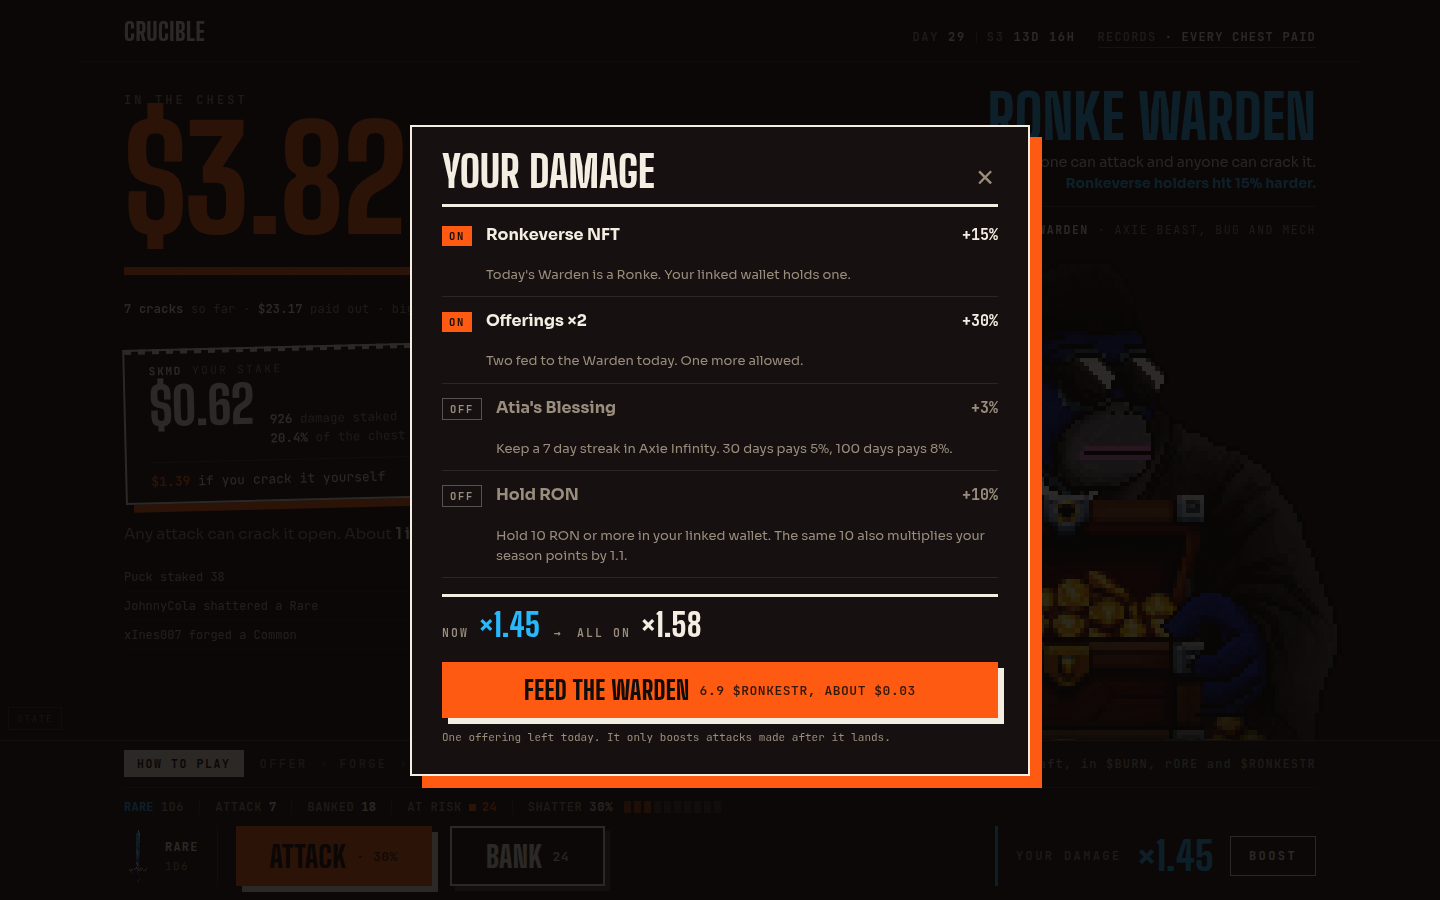
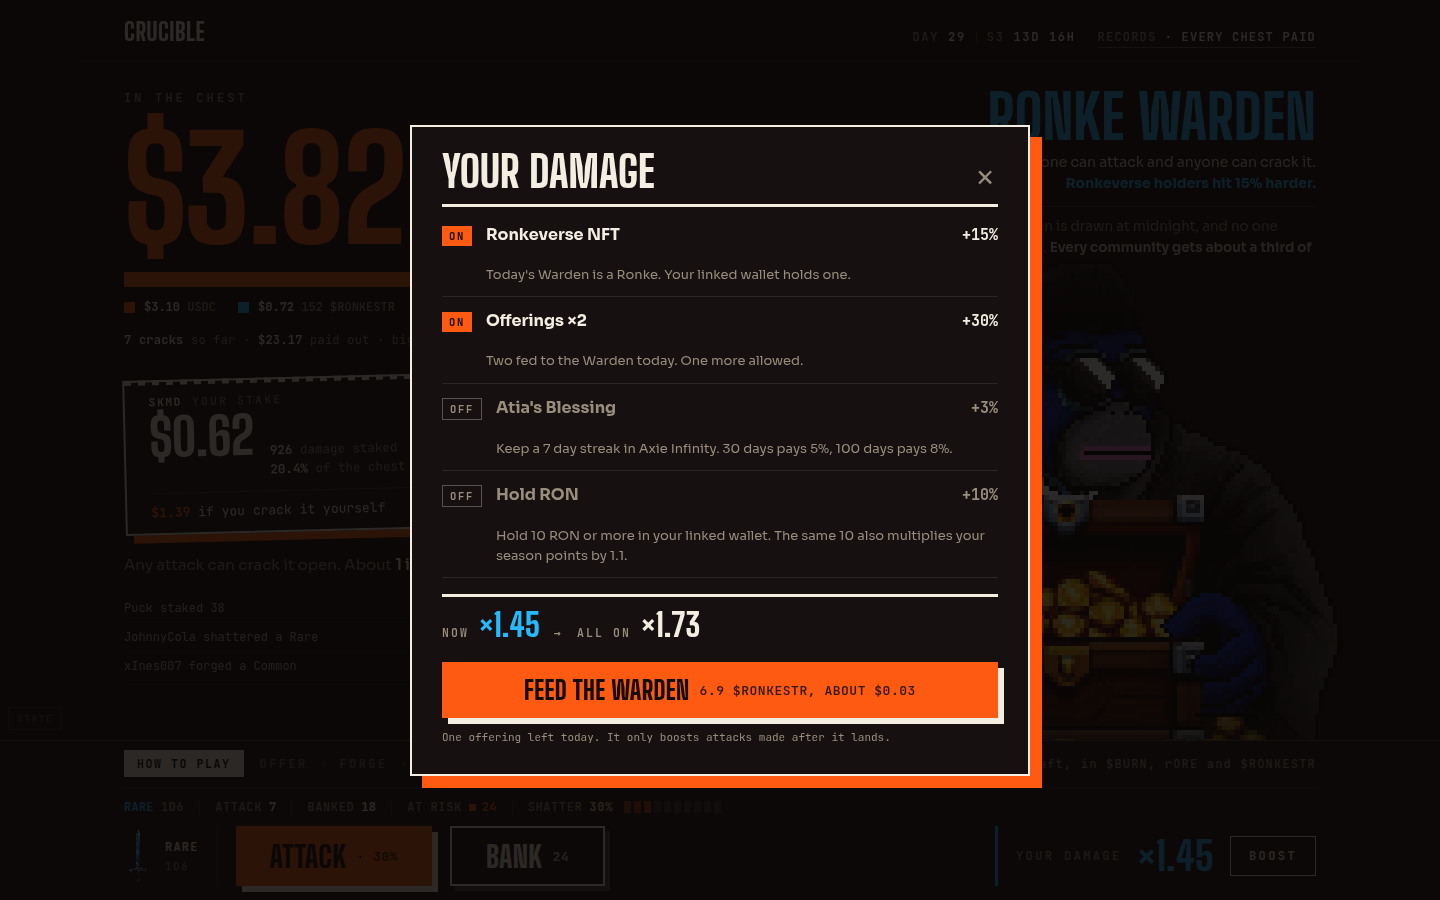
arena: D rev5

diff --git a/mockups/arena/arena-d-synthesis.html b/mockups/arena/arena-d-synthesis.html
@@ -78,33 +78,33 @@ button{font:inherit;color:inherit;background:none;border:0;cursor:pointer}
 /* ---------- the pot: a meter, not a billboard ---------- */
 .kicker{
   font-family:var(--mono);font-size:12px;font-weight:600;letter-spacing:.26em;
-  text-transform:uppercase;color:var(--muted);margin-top:30px;
+  text-transform:uppercase;color:var(--muted);margin-top:28px;
 }
+/* the dollar sign rides higher than the digits in this face, so the label needs
+   more clearance than optical centring would suggest */
 .pot{
   font-family:var(--disp);font-weight:800;font-size:clamp(84px,9.9vw,146px);
   line-height:.8;letter-spacing:-.022em;color:var(--ember);
-  margin-top:14px;font-variant-numeric:tabular-nums;display:block;
+  margin-top:26px;font-variant-numeric:tabular-nums;display:block;
 }
-/* the fill line keeps the "it grows" meaning. The count-up animation is
-   deliberately gone: a giant animated money figure is on our own list of
-   things that read as a scam. */
-.fill{position:relative;margin-top:24px;height:24px;width:min(560px,100%)}
-.fill .track{
-  position:absolute;left:0;right:0;top:10px;height:2px;
-  background:repeating-linear-gradient(to right,rgba(244,237,225,.28) 0 6px,transparent 6px 12px);
+/* Composition, not progress. It used to be a part-width "it grows" bar with an
+   unlabelled maximum, which meant an unreadable axis and two meanings on one
+   object. It is now exactly one thing: what is in the chest, by value.
+   Growth lives in the record line underneath, in words. */
+.fill{position:relative;margin-top:26px;height:15px;width:min(560px,100%);overflow:hidden}
+.fill .bar{display:flex;gap:2px;height:15px;width:100%}
+.fill .seg{height:15px;flex-grow:1;flex-basis:0;animation:grow .85s cubic-bezier(.16,1,.3,1)}
+@keyframes grow{from{transform:scaleX(0);transform-origin:left}to{transform:none}}
+
+/* the legend is the "at a glance" part: swatch, value, token. Same mono system
+   as the rail so the page still only has two type treatments for data. */
+.compo{list-style:none;display:flex;flex-wrap:wrap;gap:8px 22px;margin-top:12px}
+.compo li{
+  display:flex;align-items:center;gap:9px;
+  font-family:var(--mono);font-size:12px;font-weight:600;color:var(--muted);
 }
-.fill .ticks{
-  position:absolute;left:0;right:0;top:5px;height:12px;
-  background:repeating-linear-gradient(to right,rgba(244,237,225,.16) 0 1px,transparent 1px 10%);
-}
-.fill .bar{position:absolute;left:0;top:7px;height:8px;width:78%;display:flex;overflow:hidden}
-.fill .seg-usdc{background:var(--ember);flex:63.3 0 0}
-.fill .seg-rk{background:var(--warden);flex:14.7 0 0}
-.fill .head{position:absolute;top:0;height:24px;width:3px;background:var(--bone);left:78%;transform:translateX(-1px)}
-.fill.go .bar{animation:grow 1s cubic-bezier(.16,1,.3,1)}
-.fill.go .head{animation:growhead 1s cubic-bezier(.16,1,.3,1)}
-@keyframes grow{from{width:0}to{width:78%}}
-@keyframes growhead{from{left:0}to{left:78%}}
+.compo i{width:11px;height:11px;display:block;flex:none}
+.compo b{color:var(--bone);font-weight:700}
 
 /* the record, not a single prior draw: the ceiling persona's only hold, and
    the trust instrument the front-door red team ranked highest */
@@ -208,14 +208,15 @@ button{font:inherit;color:inherit;background:none;border:0;cursor:pointer}
 }
 .wardenhead p b{color:var(--warden);font-weight:700}
 /* nothing anywhere told a visiting community that its own day was coming */
+/* same body face as the perk line directly above it: this is a sentence, not a
+   data label, and setting it in uppercase mono made it a wall */
 .tomorrow{
-  position:relative;z-index:3;width:fit-content;margin-left:auto;
-  margin-top:12px;display:flex;align-items:center;gap:9px;
-  font-family:var(--mono);font-size:11.5px;letter-spacing:.13em;text-transform:uppercase;
-  color:var(--muted);border-top:1px solid rgba(244,237,225,.2);padding-top:9px;
+  position:relative;z-index:3;display:block;margin-left:auto;
+  margin-top:12px;padding-top:10px;max-width:36ch;
+  border-top:1px solid rgba(244,237,225,.2);
+  font-size:13.5px;line-height:1.5;color:var(--muted);
 }
-.tomorrow b{color:var(--bone);font-weight:700}
-.tomorrow img{width:26px;height:26px;opacity:.9}
+.tomorrow b{color:rgba(244,237,225,.85);font-weight:600}
 
 /* The roster that lived here has gone to Records. It was imported from
    direction B, it was never one of the five things the arena keeps, and laid
@@ -378,6 +379,11 @@ button{font:inherit;color:inherit;background:none;border:0;cursor:pointer}
 .sheet-fine{
   margin-top:11px;font-family:var(--mono);font-size:11px;line-height:1.5;color:var(--muted);
 }
+.sheet-panel.narrow{width:min(480px,100%)}
+.power-lede{margin-top:14px;font-size:15px;line-height:1.55;color:var(--muted)}
+.power-lede b{color:var(--warden);font-family:var(--disp);font-weight:800;font-size:24px;letter-spacing:0}
+.power-actions{display:grid;grid-template-columns:1fr auto;gap:12px;margin-top:18px}
+.power-actions .btn{font-size:24px;height:54px;padding:0 22px}
 
 body[data-state="forge"] .only-weapon{display:none}
 body[data-state="weapon"] .only-forge{display:none}
@@ -490,12 +496,11 @@ body[data-state="weapon"] .only-forge{display:none}
 
   .kicker{margin-top:22px;font-size:11px;letter-spacing:.22em}
   .pot{font-size:88px;margin-top:8px}
-  .fill{height:20px;margin-top:14px;width:100%}
-  .fill .track{top:8px}
-  .fill .ticks{top:4px;height:10px}
-  .fill .bar{top:6px;height:7px}
-  .fill .head{height:20px}
-  .record{margin-top:12px;font-size:11.5px}
+  .fill{height:13px;margin-top:18px;width:100%}
+  .fill .bar,.fill .seg{height:13px}
+  .compo{margin-top:10px;gap:6px 16px}
+  .compo li{font-size:11.5px;gap:7px}
+  .record{margin-top:11px;font-size:11.5px}
 
   .stampwrap{margin-top:20px}
   .stamp{min-width:0;width:100%;transform:rotate(-.9deg);padding:12px 15px 11px;box-shadow:6px 6px 0 var(--ember)}
@@ -535,6 +540,10 @@ body[data-state="weapon"] .only-forge{display:none}
   .buff-sum{font-size:10.5px;letter-spacing:.12em;gap:7px;margin-top:13px;padding-top:11px}
   .buff-sum b{font-size:26px}
   .sheet-fine{font-size:10.5px}
+  .power-lede{font-size:13.5px;margin-top:12px}
+  .power-lede b{font-size:21px}
+  .power-actions{grid-template-columns:1fr;gap:9px;margin-top:14px}
+  .power-actions .btn{font-size:21px;height:48px}
   .pop{font-size:30px}
 }
 
@@ -624,14 +633,50 @@ body[data-state="weapon"] .only-forge{display:none}
       </li>
     </ul>
 
+    <!-- 1 + .15 NFT + .45 three offerings + .03 Atia + .10 RON -->
     <div class="buff-sum">
       <span>Now</span><b class="now">&times;1.45</b>
       <span class="arrow">&rarr;</span>
-      <span>All on</span><b class="max">&times;1.58</b>
+      <span>All on</span><b class="max">&times;1.73</b>
     </div>
 
     <button class="btn btn-primary sheet-go" data-close>Feed the Warden <small>6.9 $RONKESTR, about $0.03</small></button>
     <p class="sheet-fine">One offering left today. It only boosts attacks made after it lands.</p>
+  </div>
+</div>
+
+<!-- Not at full power. Fires once per visit, on the first attack or forge, and
+     ONLY when there is a boost the player could switch on today. A 100 day Atia
+     streak is not something you can fix before your next attack, so nagging
+     about it would make this fire forever and mean nothing. -->
+<div class="sheet" id="powerSheet" hidden>
+  <div class="sheet-scrim" data-close></div>
+  <div class="sheet-panel narrow" role="dialog" aria-modal="true" aria-labelledby="power-title">
+    <div class="sheet-head">
+      <h2 id="power-title">Not at full power</h2>
+      <button class="sheet-x" data-close aria-label="Close">&times;</button>
+    </div>
+    <p class="power-lede">You are attacking at <b class="now">&times;1.45</b>. Two boosts are
+      still available to you today.</p>
+    <ul class="buffs">
+      <li class="off">
+        <span class="tag">Off</span><span class="nm">One more offering</span><span class="amt">+15%</span>
+        <p>6.9 $RONKESTR, about $0.03. Two of three used.</p>
+      </li>
+      <li class="off">
+        <span class="tag">Off</span><span class="nm">Hold 10 RON</span><span class="amt">+10%</span>
+        <p>In your linked wallet. Also multiplies season points by 1.1.</p>
+      </li>
+    </ul>
+    <div class="buff-sum">
+      <span>Now</span><b class="now">&times;1.45</b>
+      <span class="arrow">&rarr;</span>
+      <span>Today</span><b class="max">&times;1.70</b>
+    </div>
+    <div class="power-actions">
+      <button class="btn btn-primary" id="powerBoost">Boost first</button>
+      <button class="btn btn-ghost" data-close>Attack anyway</button>
+    </div>
   </div>
 </div>
 
@@ -646,18 +691,15 @@ body[data-state="weapon"] .only-forge{display:none}
 
     <div class="col">
       <p class="kicker">In the chest</p>
-      <span class="pot">$3.82</span>
+      <span class="pot" id="pot">$3.82</span>
 
-      <div class="fill" id="fill">
-        <div class="ticks"></div>
-        <div class="track"></div>
-        <div class="bar"><span class="seg-usdc"></span><span class="seg-rk"></span></div>
-        <div class="head"></div>
-      </div>
+      <!-- what is actually in the chest, by value. Rendered from CHEST[] so a new
+           token is one row of data, not a layout change. -->
+      <div class="fill"><div class="bar" id="bar"></div></div>
+      <ul class="compo" id="compo"></ul>
 
       <p class="record">
         <b>7 cracks</b> so far &middot; <b>$23.17</b> paid out &middot; biggest <b>$7.89</b>
-        &middot; this one holds <span class="rk">152 $RONKESTR</span>
       </p>
 
       <div class="stampwrap">
@@ -693,9 +735,13 @@ body[data-state="weapon"] .only-forge{display:none}
         <p>Anyone can attack and anyone can crack it. <b>Ronkeverse holders hit 15% harder.</b></p>
       </div>
 
+      <!-- NOT a prediction. The Warden is drawn at rollover from that day's
+           secret seed, so tomorrow's is unknowable today by design. What a
+           visiting community needs is that the rotation exists and comes back
+           round, which is true and says nothing the chain has not decided. -->
       <span class="tomorrow">
-        <img src="assets/wardens/beast.png" alt="">
-        Tomorrow <b>Beast Warden</b> &middot; Axie beast, bug and mech
+        A new Warden is drawn at midnight, and no one knows which.
+        <b>Every community gets about a third of the days.</b>
       </span>
     </div>
 
@@ -764,10 +810,39 @@ body[data-state="weapon"] .only-forge{display:none}
   var reduce = window.matchMedia('(prefers-reduced-motion: reduce)').matches;
   var $ = function(id){ return document.getElementById(id); };
 
-  var POT = 3.82, OTHERS = 3603, FINDER = 0.20;
+  /* What is in the chest. ONE place to add a token: give it a value and its own
+     brand colour and both the bar and the legend pick it up. This is the single
+     scoped exception to the two-accent lock, because here the colour IS the
+     data. Cash keeps the ember of the headline figure; tokens use their own
+     brand colours ($RONKESTR #27B9FC, and e.g. $BURN #ff4800, SLP, rORE
+     #4ba3f7 when they land). */
+  var CHEST = [
+    { label:'USDC',       usd:3.10, color:'var(--ember)' },
+    { label:'$RONKESTR',  usd:0.72, color:'#27B9FC', qty:'152' }
+  ];
+  var POT = CHEST.reduce(function(a,c){ return a + c.usd; }, 0);
+  var OTHERS = 3603, FINDER = 0.20;
   var st = { swing:7, banked:18, risk:24, shatter:0.30, staked:926 };
 
-  if (!reduce) requestAnimationFrame(function(){ $('fill').classList.add('go'); });
+  (function renderChest(){
+    var bar = $('bar'), leg = $('compo');
+    CHEST.forEach(function(c, i){
+      var seg = document.createElement('span');
+      seg.className = 'seg';
+      seg.style.background = c.color;
+      seg.style.flexGrow = c.usd;
+      seg.style.animationDelay = (i * 90) + 'ms';
+      if (reduce) seg.style.animation = 'none';
+      bar.appendChild(seg);
+
+      var li = document.createElement('li');
+      li.innerHTML = '<i style="background:' + c.color + '"></i>' +
+        '<span><b>$' + c.usd.toFixed(2) + '</b> ' +
+        (c.qty ? c.qty + ' ' : '') + c.label + '</span>';
+      leg.appendChild(li);
+    });
+    $('pot').textContent = '$' + POT.toFixed(2);
+  })();
 
   var meter = $('meter');
   for (var i=0;i<10;i++) meter.appendChild(document.createElement('i'));
@@ -797,6 +872,27 @@ body[data-state="weapon"] .only-forge{display:none}
   }
   wireSheet('sheet', 'howto');
   wireSheet('boostSheet', 'boostBtn');
+
+  /* ---- "not at full power", once per visit ----
+     Gated on boosts the player can act on TODAY, not on the theoretical max.
+     Real implementation reads sessionStorage; a mock uses a variable so the
+     reviewer can see it more than once by reloading. */
+  var powerShown = false;
+  var actionableGain = 0.25;                 // one offering left (+15%) and RON (+10%)
+  function maybeWarnPower(){
+    if (powerShown || actionableGain <= 0) return false;
+    powerShown = true;
+    $('powerSheet').hidden = false;
+    $('powerSheet').querySelector('.sheet-x').focus();
+    return true;
+  }
+  $('powerSheet').addEventListener('click', function(e){
+    if (e.target.closest('[data-close]')) $('powerSheet').hidden = true;
+  });
+  $('powerBoost').addEventListener('click', function(){
+    $('powerSheet').hidden = true;
+    $('boostSheet').hidden = false;
+  });
 
   function renderRisk(){
     var pct = Math.round(st.shatter*100);
@@ -859,6 +955,7 @@ body[data-state="weapon"] .only-forge{display:none}
   }
 
   $('push').addEventListener('click', function(){
+    if (maybeWarnPower()) return;
     if (Math.random() < st.shatter){
       hit('shattered', true);
       st.swing = 0; st.banked = 0; st.risk = 0; st.shatter = 0;
@@ -879,6 +976,7 @@ body[data-state="weapon"] .only-forge{display:none}
   });
 
   $('forge').addEventListener('click', function(){
+    if (maybeWarnPower()) return;
     document.body.dataset.state = 'weapon';
     st.swing = 0; st.banked = 0; st.risk = 0; st.shatter = 0;
     render(); measure();

diff --git a/mockups/arena/PLAN.md b/mockups/arena/PLAN.md
@@ -353,3 +353,38 @@ copy plus an Offer button) to one.
    on `/api/season`), and the same 10 also carries a **×1.1 season points multiplier**,
    which the copy now says because it makes the same 10 RON pay twice.
 
+### D revision 5 (operator review, 2026-07-30)
+
+1. **Tomorrow's Warden is gone, and it should never have been there.** Checked against
+   `game.js`: the class is drawn by `fairRoll('warden', ...)` at rollover from **that day's
+   secret seed**, with only the previous day's class excluded. Tomorrow's is therefore
+   unknowable today *by construction*. Publishing one would mean either inventing it or
+   pre-drawing it, and pre-drawing breaks the commit-reveal scheme the whole game's
+   fairness rests on. The line now says what is true and still answers the Axie persona's
+   "when is my day": a new Warden is drawn at midnight, no one knows which, every community
+   gets about a third of the days.
+2. **The chest bar is now a composition bar.** It was a part-width "it grows" bar whose
+   maximum was never labelled, carrying two meanings at once. It is now exactly one thing:
+   what is in the chest, by value, full width, with a legend underneath
+   (`$3.10 USDC · $0.72 152 $RONKESTR`). Growth moved to the record line, in words.
+   Verified proportional rather than eyeballed: 80.7% / 18.7% rendered against 81.2% /
+   18.8% true.
+   Rendered from a `CHEST[]` array, so **adding SLP, $BURN or rORE is one row of data**,
+   not a layout change. This is the one **scoped exception to the two-accent lock**: here
+   the colour *is* the data. Cash keeps the ember of the headline figure and tokens use
+   their own brand colours.
+3. **"Not at full power"** fires once per visit, on the first attack or forge.
+   ⚠ Deliberately gated on **boosts the player can act on today**, not on the theoretical
+   maximum. Full power needs a 100 day Atia streak, so a max-based test would fire for
+   effectively every player, every visit, forever, and usually name something they cannot
+   fix before their next attack. That is an interstitial in front of the primary action
+   with no available remedy, which is the exact failure four red-team personas bounced on
+   in direction C. Gated this way it is always actionable and goes quiet once you are
+   topped up. It offers `Boost first` or `Attack anyway`, never blocks, and hands off to
+   the Boost panel.
+4. **`In the chest` had too little clearance** over the dollar sign, which rides higher
+   than the digits in this face. More space above the figure.
+5. Corrected my own arithmetic: the Boost panel's "all on" said ×1.58, which had silently
+   omitted the third offering. It is **×1.73** (`1 + .15 NFT + .45 offerings + .03 Atia +
+   .10 RON`).
+
